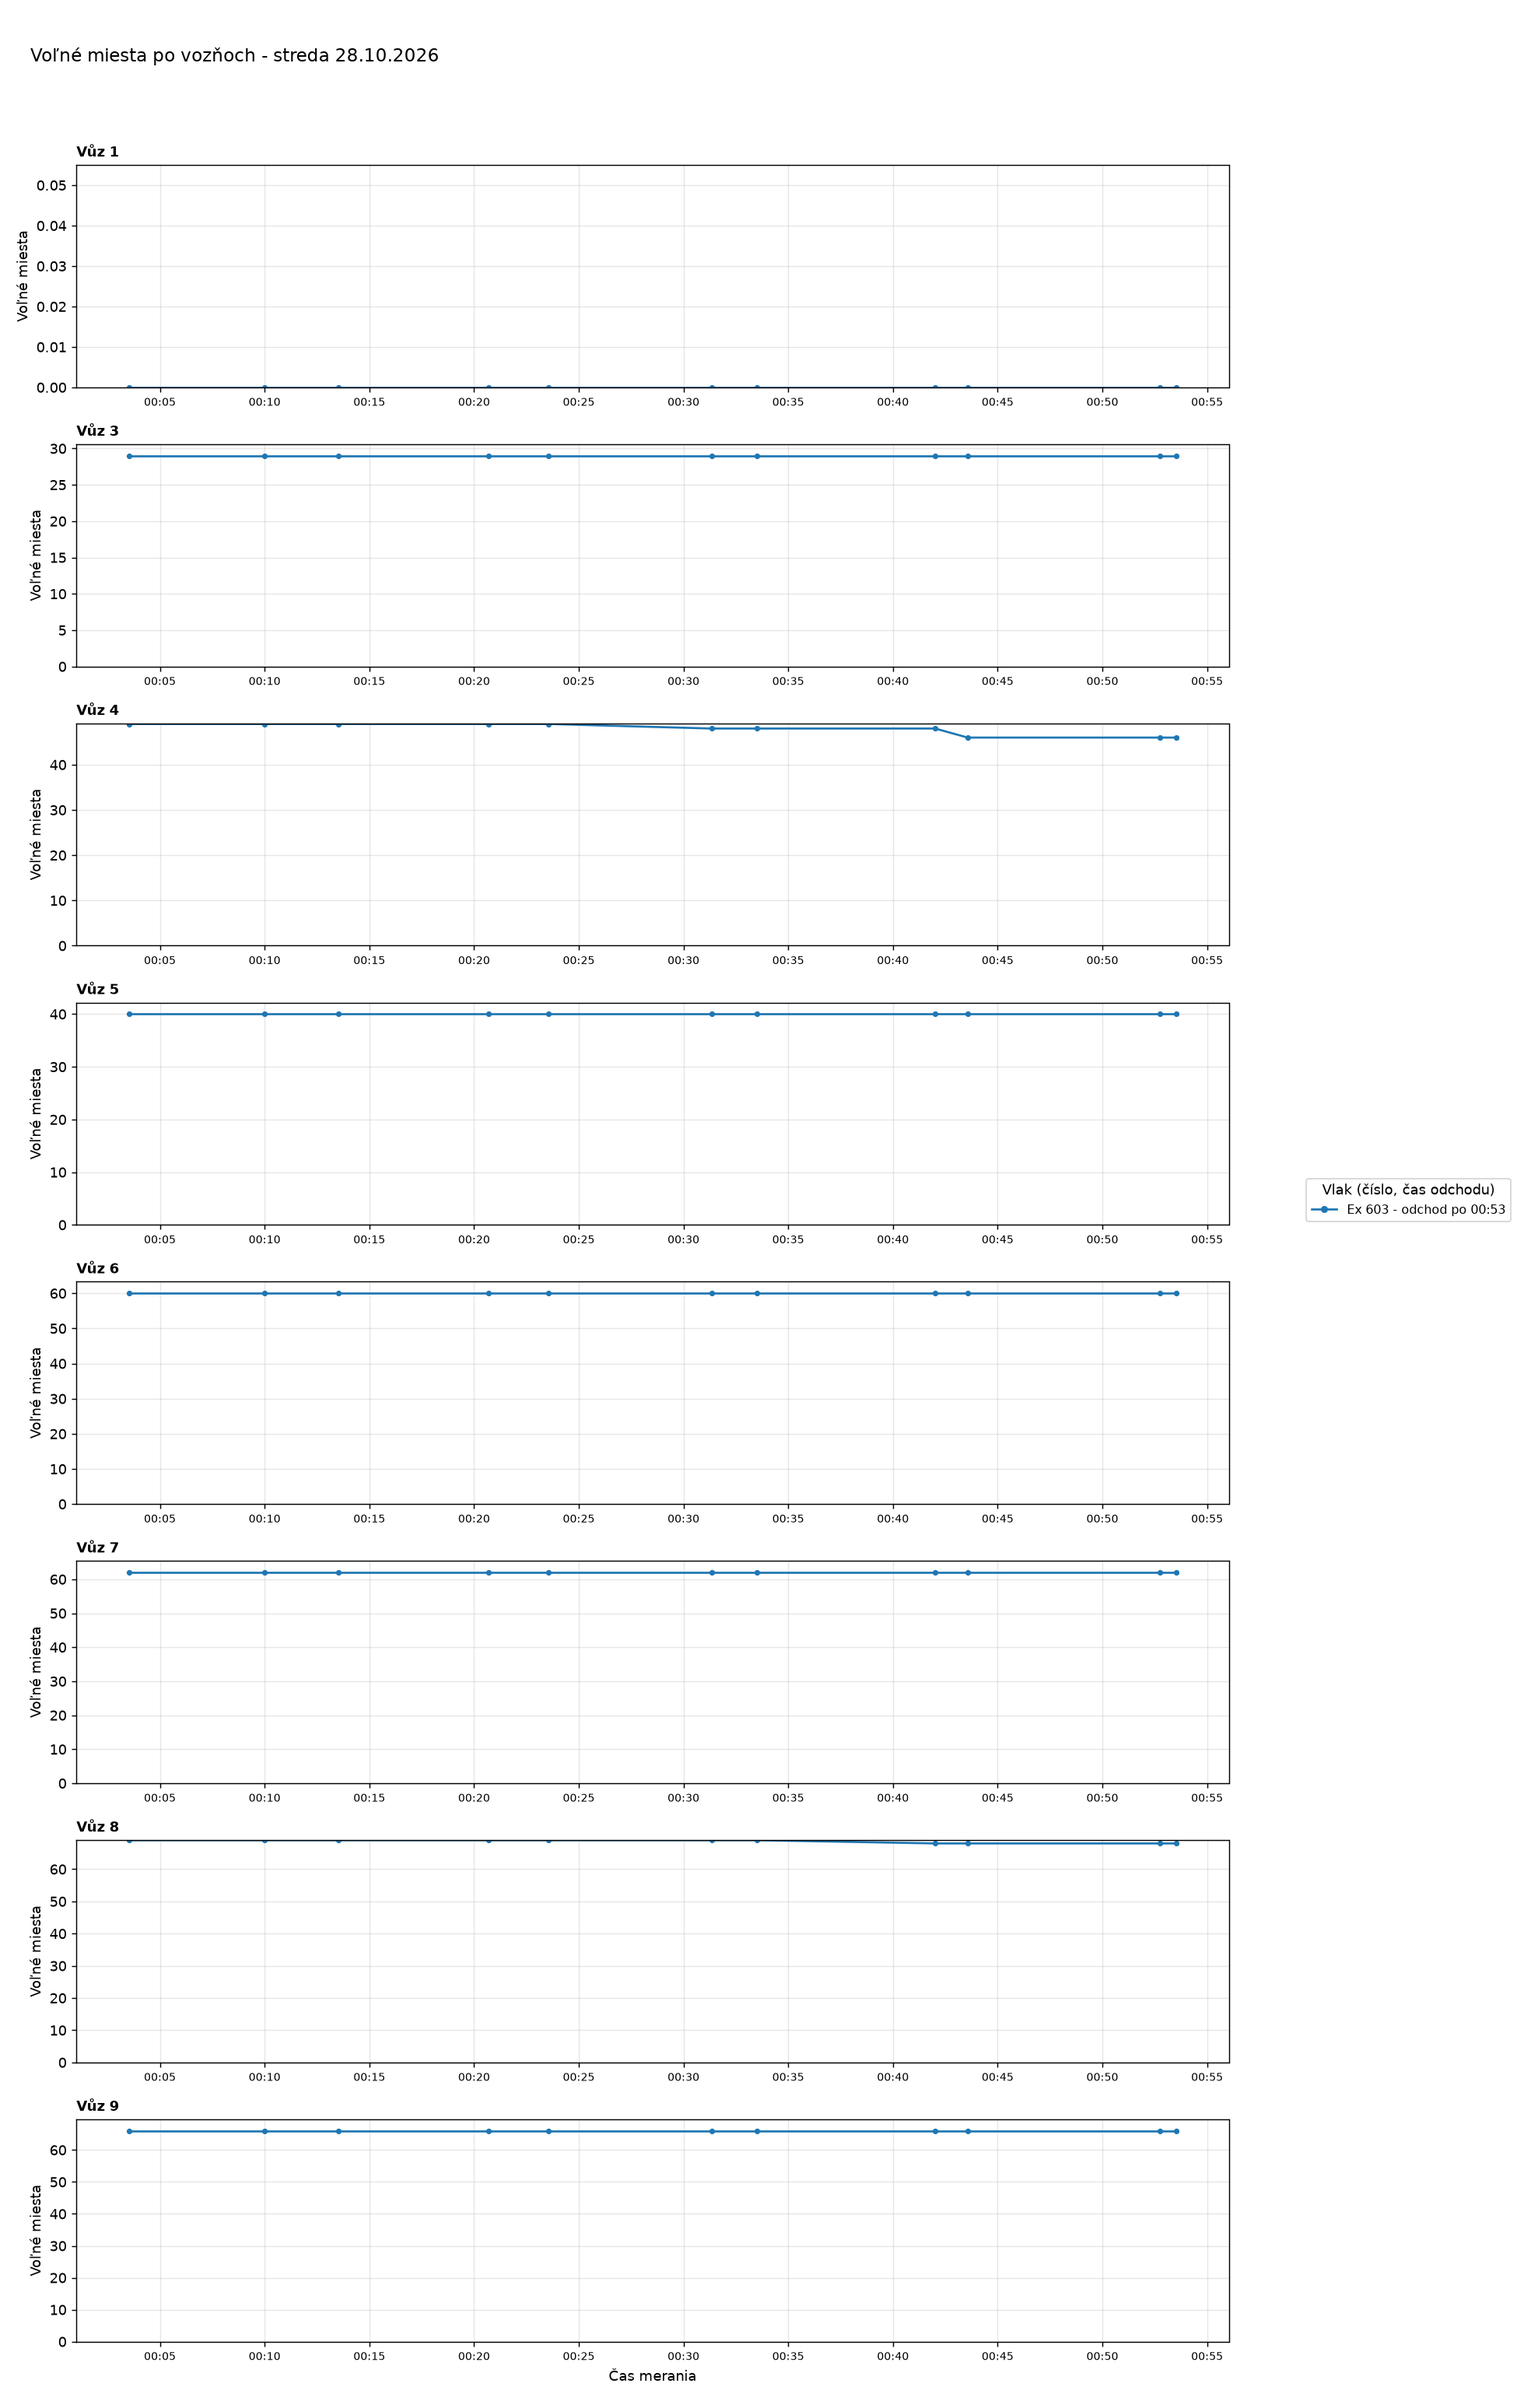
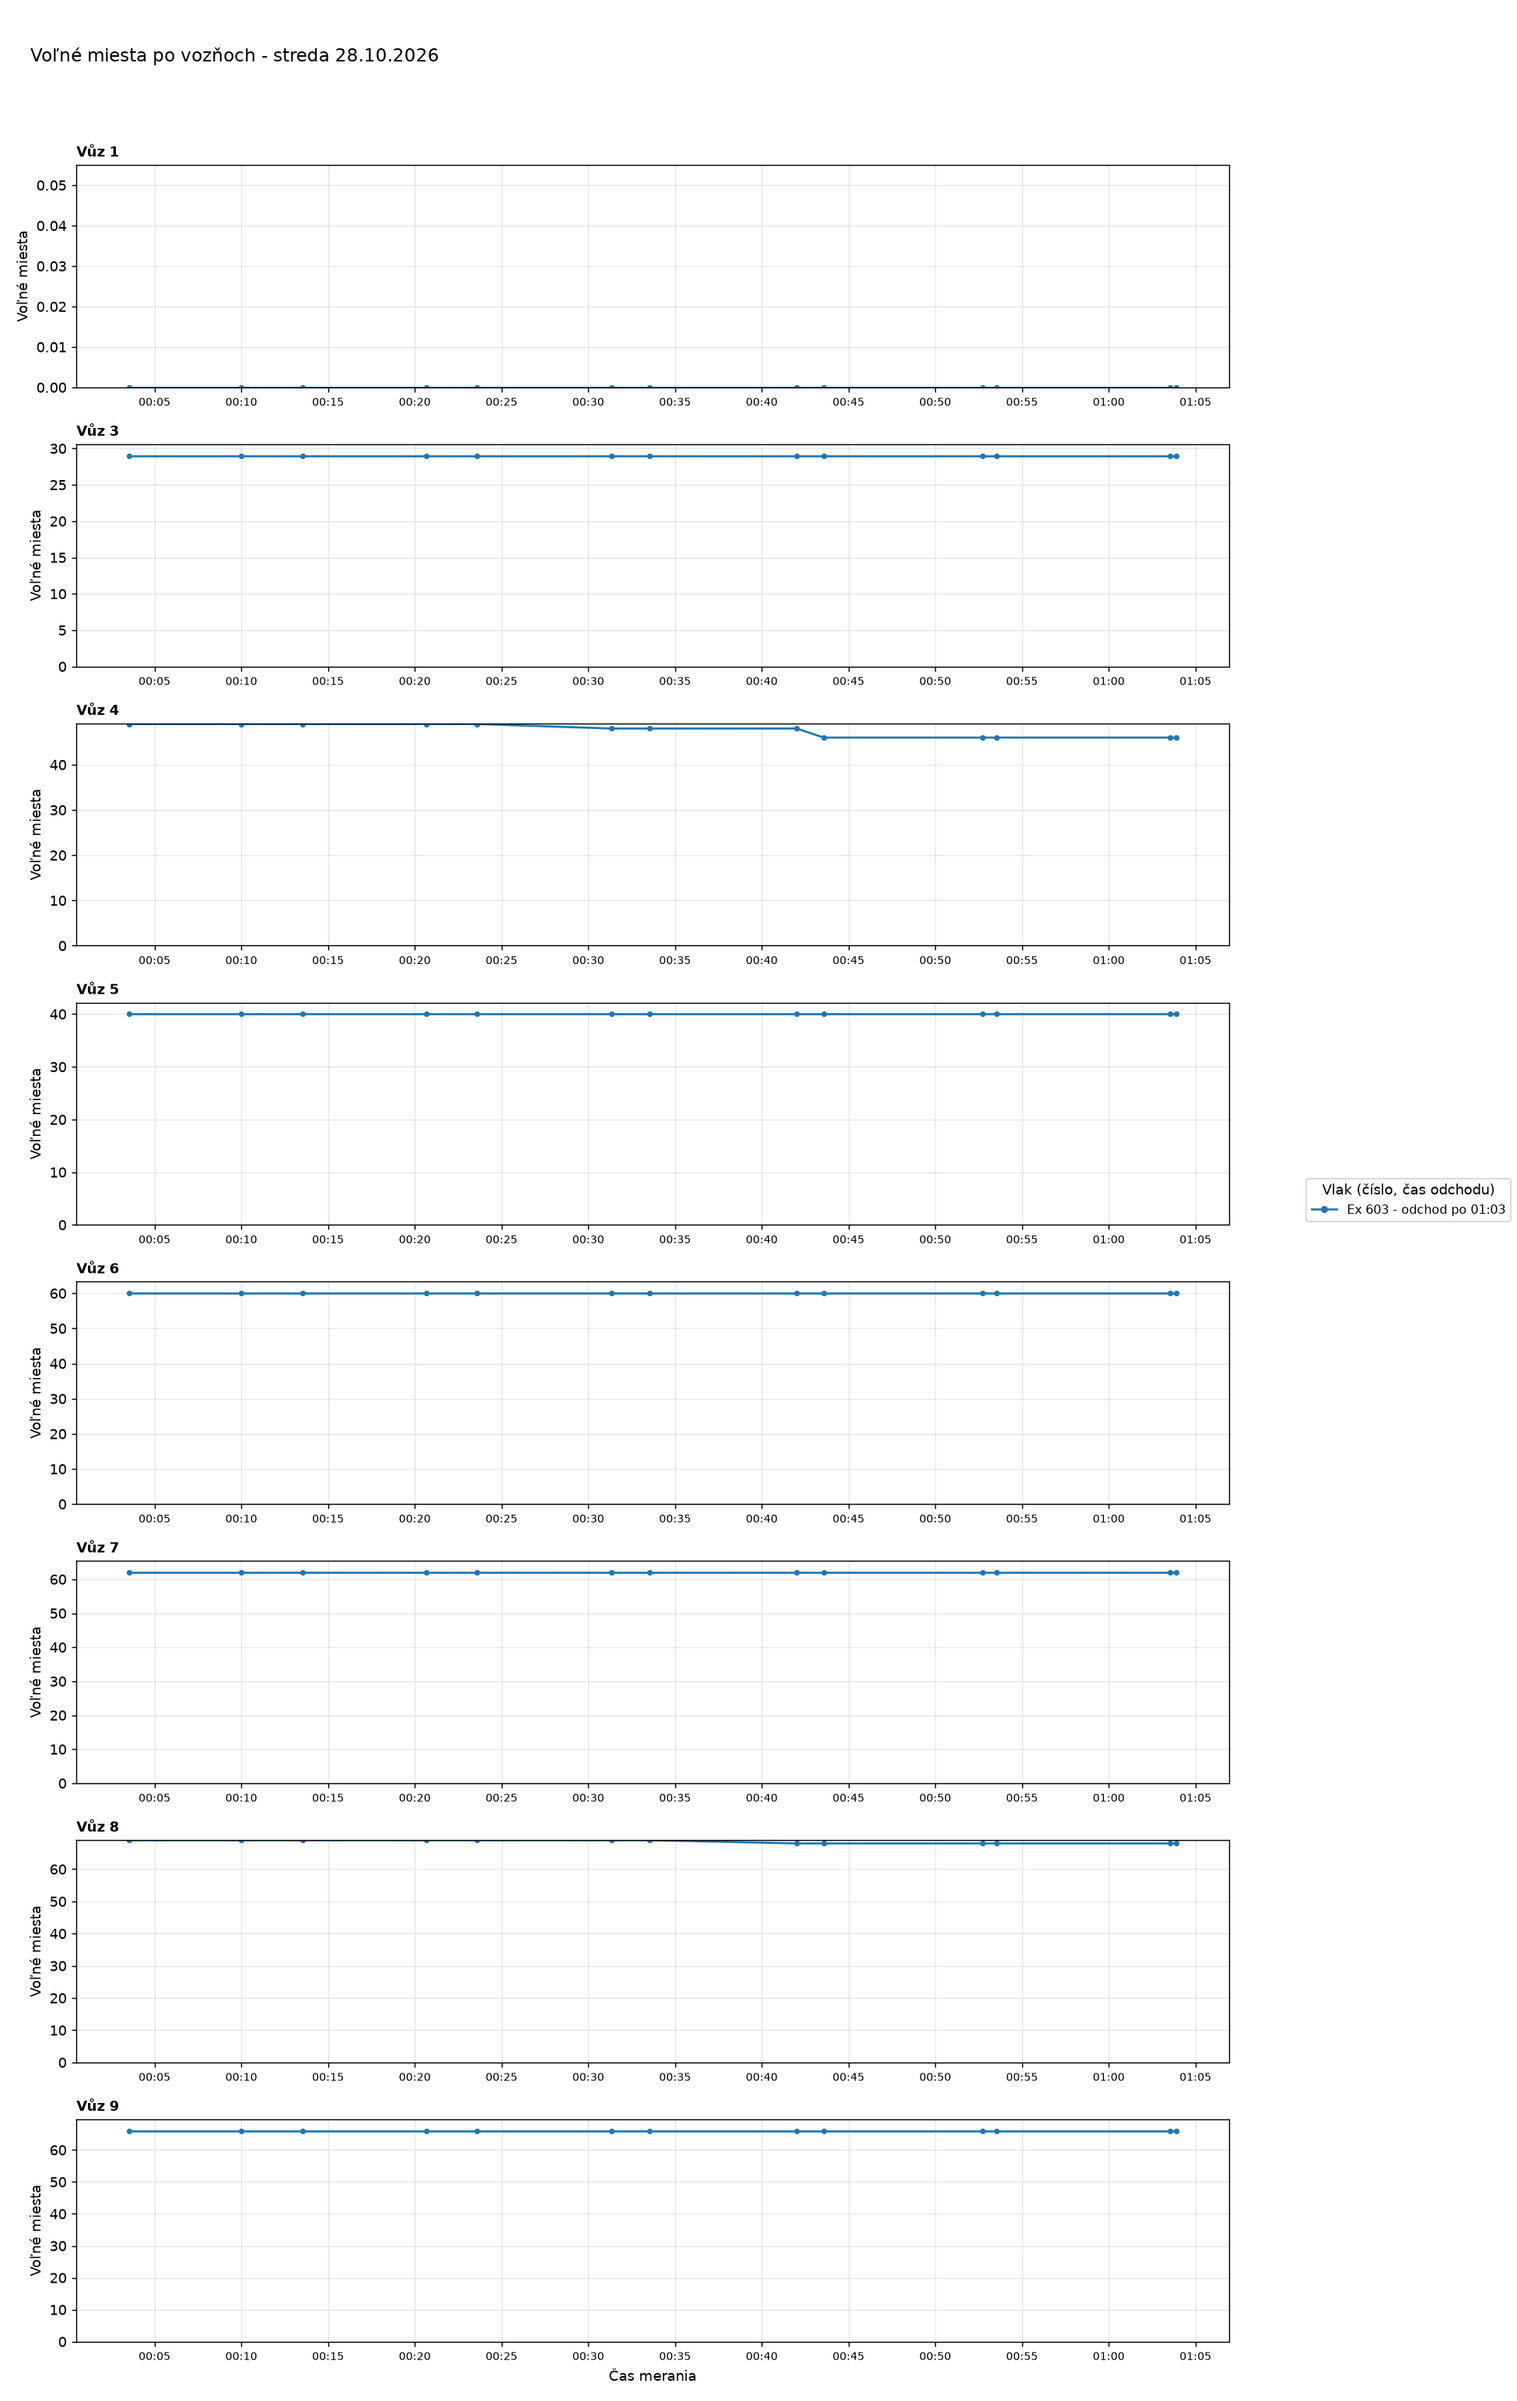
Aktualizácia grafov 2026-10-28 01:12

Changed region(s): [[0.5538, 0.28, 0.6154, 0.3111], [0.3692, 0.28, 0.4, 0.3111]]

diff --git a/index.html b/index.html
@@ -35,7 +35,7 @@ h2.oddiel{margin:36px 0 0;font-size:1.4rem}
 <body>
 <main>
 <h1>Voľné miesta vo vlakoch</h1>
-<p class="muted">Posledné meranie: 28.10.2026 00:53 ·
+<p class="muted">Posledné meranie: 28.10.2026 01:03 ·
 <a href="data/obsadenost_data.csv">stiahnuť dáta (CSV)</a></p>
 <nav class="nav"><a href="#suhrn">Súhrn</a><a href="#statistiky">Štatistiky</a><a href="#historia">História grafov</a></nav>
 
@@ -44,7 +44,7 @@ h2.oddiel{margin:36px 0 0;font-size:1.4rem}
 <div class="tablewrap"><table>
 <thead><tr><th>Deň</th><th>Meraní</th><th>Vlakov</th><th>Čas meraní</th></tr></thead>
 <tbody>
-<tr><td><a href="#d2026-10-28">streda 28.10.2026</a></td><td>11</td><td>1</td><td>00:03-00:53</td></tr>
+<tr><td><a href="#d2026-10-28">streda 28.10.2026</a></td><td>13</td><td>1</td><td>00:03-01:03</td></tr>
 <tr><td><a href="#d2026-10-27">utorok 27.10.2026</a></td><td>99</td><td>11</td><td>00:01-23:59</td></tr>
 <tr><td><a href="#d2026-10-26">pondelok 26.10.2026</a></td><td>88</td><td>14</td><td>00:06-23:50</td></tr>
 <tr><td><a href="#d2026-10-25">nedeľa 25.10.2026</a></td><td>101</td><td>15</td><td>00:01-23:56</td></tr>
